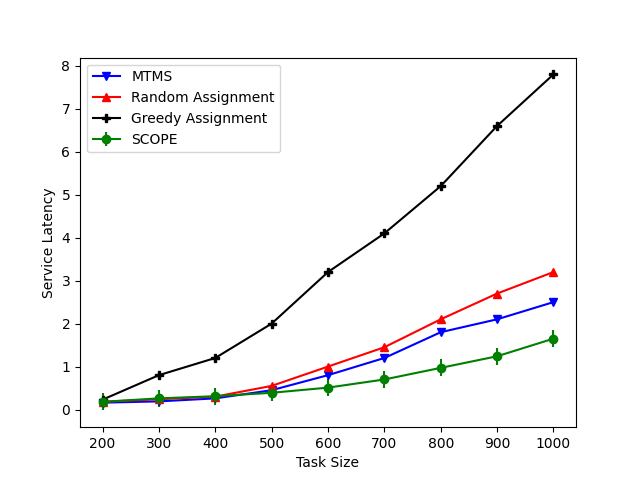
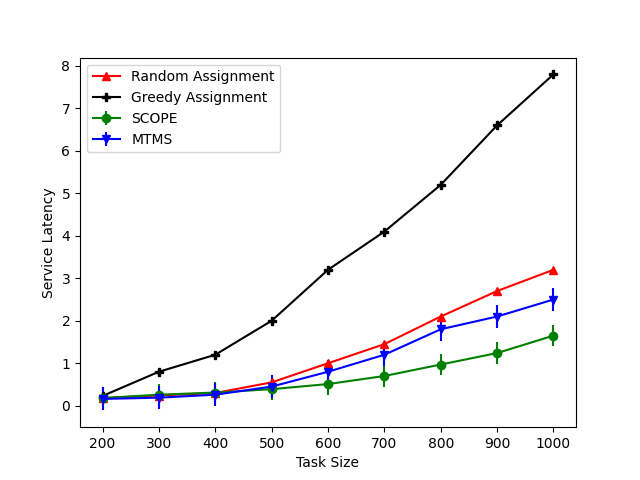
yerr value update

diff --git a/dummygraph.py b/dummygraph.py
@@ -279,7 +279,7 @@ def taskSizeVsLatency():
     plt.ylabel('Service Latency')
     # plt.plot(x1, y4, marker='o', c='g', label='SCOPE')
     plt.errorbar(x1, y4, color='green', label='SCOPE', yerr=0.255, marker='o')
-    plt.plot(x1, y1, marker='v', c='b', label='MTMS')
+    plt.errorbar(x1, y1, color='b', label='MTMS', yerr=0.270, marker='v')
     plt.plot(x1, y2, marker='^', c='r', label='Random Assignment')
     plt.plot(x1, y3, marker='P', c='k', label='Greedy Assignment')
 
